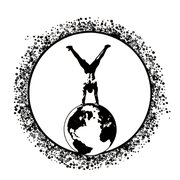
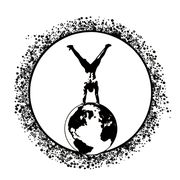
Add files via upload

Changed region(s): [[0.0556, 0.0833, 0.9444, 0.9444], [0.3889, 0.6111, 0.4167, 0.6389]]

diff --git a/index.html b/index.html
@@ -6,11 +6,11 @@
     <meta name="theme-color" content="#E6E1D6" />
     <title>Life Athletics</title>
     <!-- Favicon — purpose-built sizes so the mark fills the frame and reads crisp -->
-    <link rel="icon" type="image/png" sizes="32x32" href="/favicon-32.png?v=6" />
-    <link rel="icon" type="image/png" sizes="512x512" href="/favicon-mark.png?v=6" />
-    <link rel="apple-touch-icon" href="/apple-touch-icon.png?v=6" />
-    <link rel="icon" type="image/png" sizes="192x192" href="/icon-192.png?v=6" />
-    <link rel="manifest" href="/manifest.json?v=6" />
+    <link rel="icon" type="image/png" sizes="32x32" href="/favicon-32.png?v=7" />
+    <link rel="icon" type="image/png" sizes="512x512" href="/favicon-mark.png?v=7" />
+    <link rel="apple-touch-icon" href="/apple-touch-icon.png?v=7" />
+    <link rel="icon" type="image/png" sizes="192x192" href="/icon-192.png?v=7" />
+    <link rel="manifest" href="/manifest.json?v=7" />
     <link rel="preconnect" href="https://fonts.googleapis.com" />
     <link rel="preconnect" href="https://fonts.gstatic.com" crossorigin />
     <link